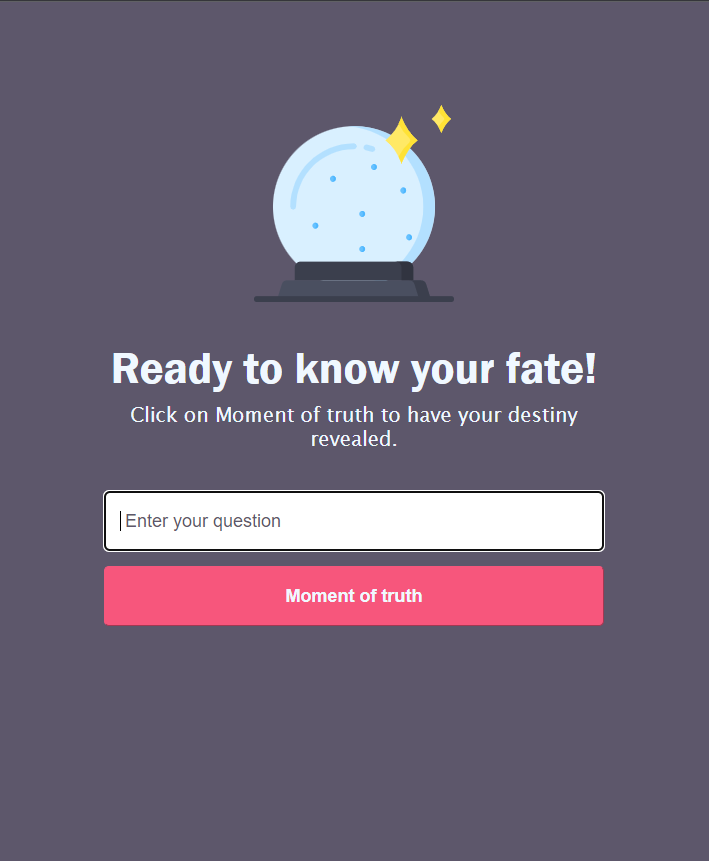
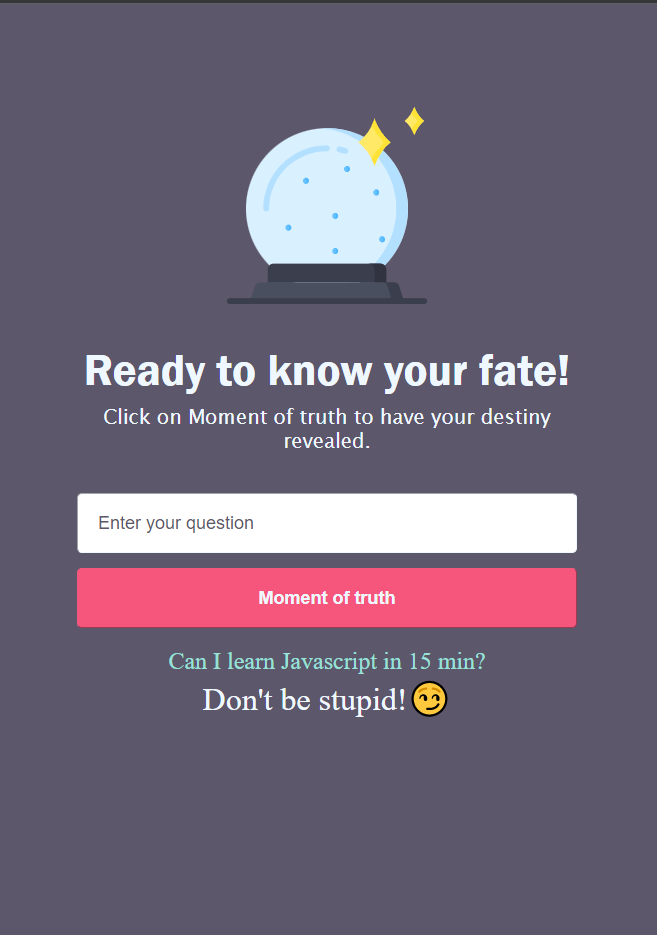
README

Changed region(s): [[0.0913, 0.1208, 0.8828, 0.7851], [0.6088, 0.1208, 0.6393, 0.151]]

diff --git a/README.md b/README.md
@@ -12,7 +12,7 @@ Have fun figuring out your destiny, build with HTML, CSS, JavaScript .
 ## 🖥 Preview
 
 <p align="center">
-  <img src="destiny.png" width="700" >
+  <img src="destiny.png" width="600" >
 </p>
 
 ---
@@ -21,7 +21,7 @@ Have fun figuring out your destiny, build with HTML, CSS, JavaScript .
 
 Este é um projeto desenvolvido durante a **[Maratona Explore](https://evento.rocketseat.com.br/maratona-explorer/episodios/explorer/abertura/edicao/1?utm_source=convertkit&utm_medium=leads_cadastrados&utm_campaign=aula-disponivel&utm_term=email&utm_content=aula1-disponivel)**, realizada pela **[@Rocketseat](https://github.com/Rocketseat)** durante os dias 6 a 12 de Junho de 2022.
 
-A proposta do projeto é uma aplicação que possa ligar quem deseja aprender, com quer ensinar. É possível encontrar alunos para o que você leciona, ou encontrar o professor para aquela matéria que você sempre quis aprender mais! Sem que haja nenhuma limitação de área!!
+Make question let's see what the destiny is keeping for you!
 
 ---
 
